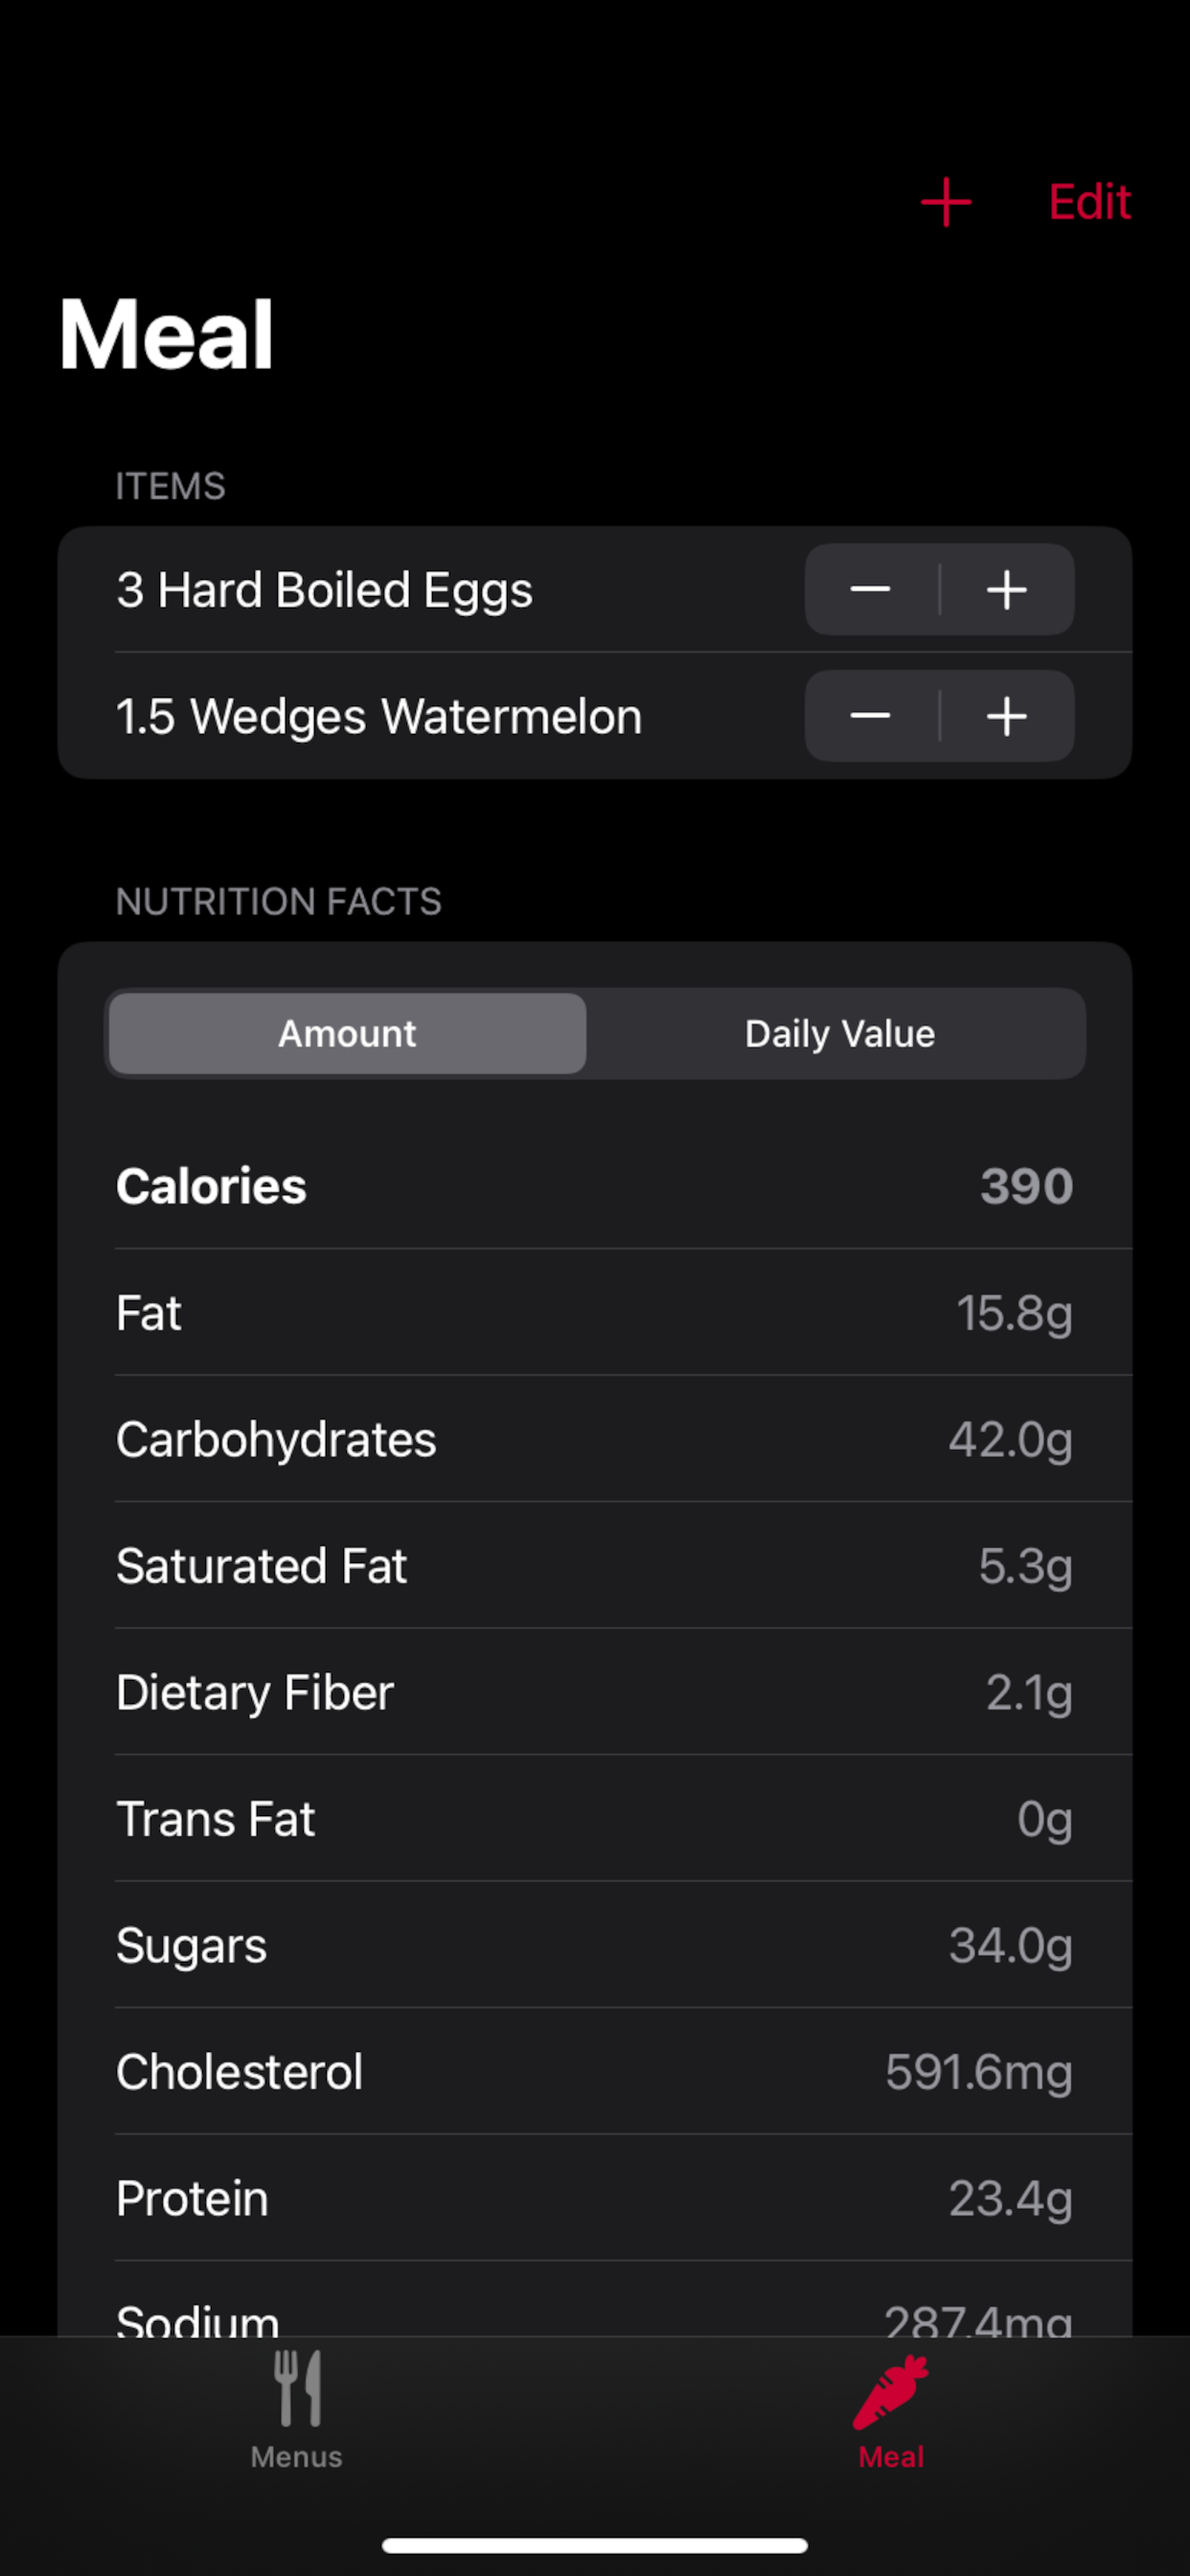
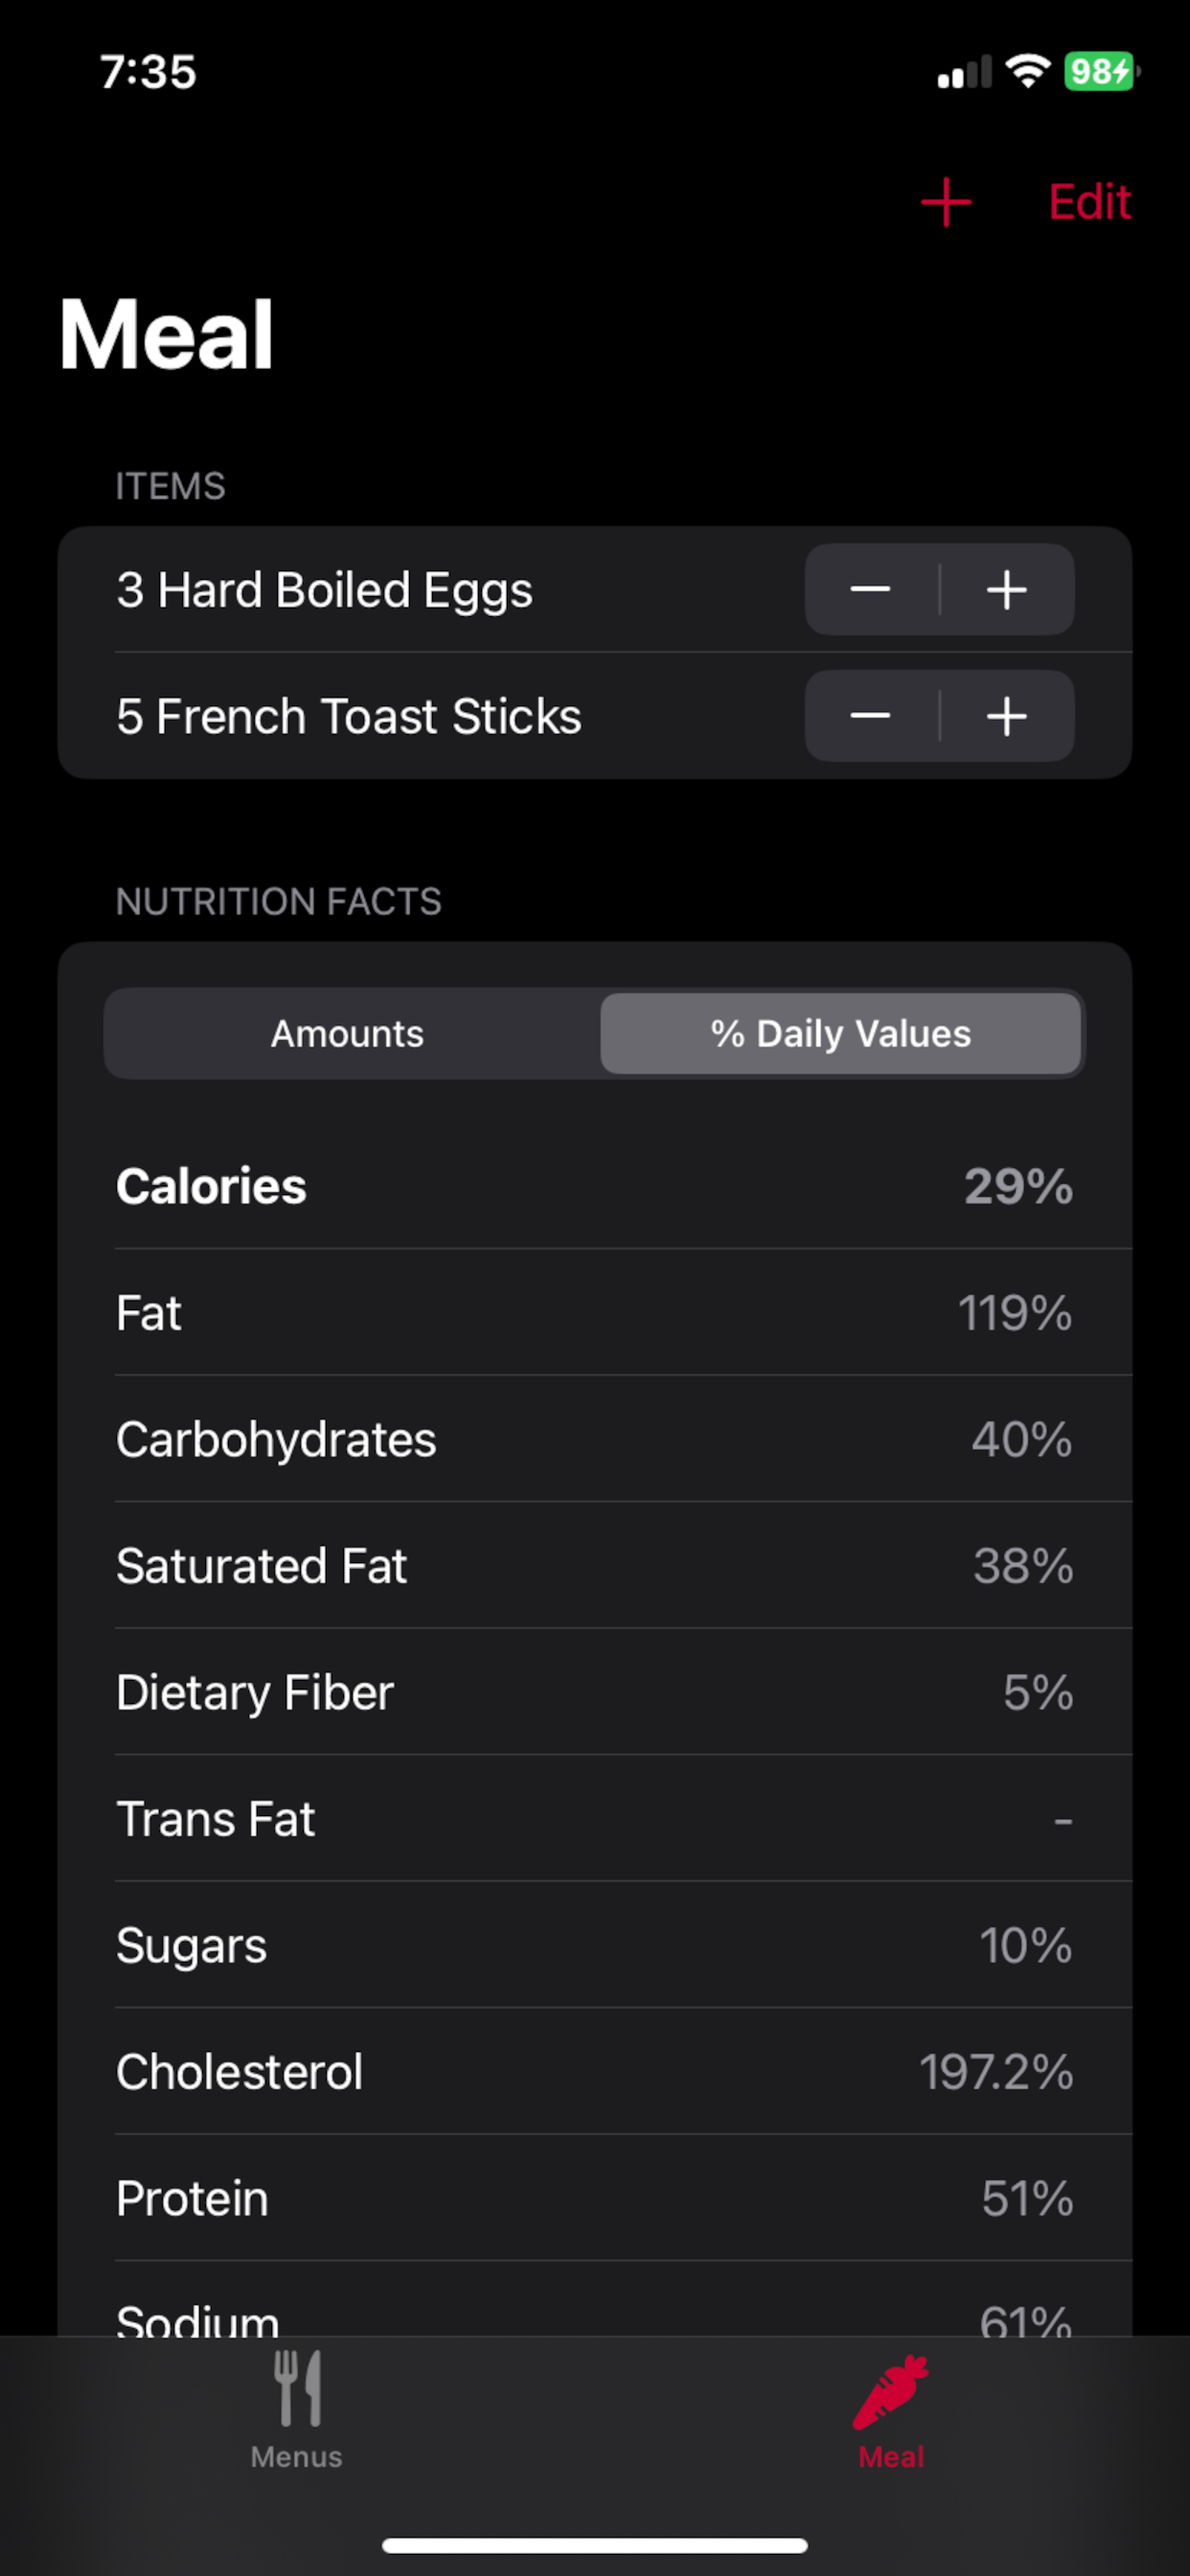
Update screenshots and README.md

diff --git a/README.md b/README.md
@@ -1,14 +1,21 @@
-# <img src="RU-Eating/Assets.xcassets/AppIcon.appiconset/MenRU.png" width="22" /> RU Eating
+# <img src="RU-Eating/Assets.xcassets/Scarlet.appiconset/MenRU.png" width="22" /> RU Eating
+[![Download on the App Store](Images/download-on-app-store.svg)](https://apps.apple.com/us/app/ru-eating/id6692608792)
+
 An unofficial Rutgers University-New Brunswick dining hall menu app for iOS written in Swift using **SwiftUI**, **SwiftData**, and **[SwiftSoup](https://github.com/scinfu/SwiftSoup)**.
 
 ## Features
 - View dine-in and takeout menus from Busch Dining Hall, Livingston Dining Commons, Neilson Dining Hall, and The Atrium from any date pulled directly from [food.rutgers.edu](https://food.rutgers.edu)
 - Filters through item's ingredients and warns the user if an item contains their dietary restrictions
-- View nutrition facts (amount and daily value) and ingredients for items
+- View detailed nutrition facts (amounts and percent daily values) and ingredients for items
 - Favorite items, adding a star next to the item every time it appears on current and future menus
 - Calculate nutrition facts of an entire meal
 - Display weekend breakfast options under breakfast and lunch
 - Display which dining halls are currently open and closed based on their normal hours
+- Optionally use FDA daily values instead of default daily values
+- Hide nutrients with no value or with a value of zero
+- Renamed items to make the names more consistent
+- Reorders menu and puts the more used categories towards the top
+- Change app icon and color scheme in settings
 
 ## Requirements
 - iOS 17+
@@ -20,6 +27,6 @@ An unofficial Rutgers University-New Brunswick dining hall menu app for iOS writ
   <img src="./screenshots/iPhone 16 Pro Max/menu.png" width="32%">
   <img src="./screenshots/iPhone 16 Pro Max/item.png" width="32%">
   <img src="./screenshots/iPhone 16 Pro Max/meal.png" width="32%">
+  <img src="./screenshots/iPhone 16 Pro Max/add-item.png" width="32%">
   <img src="./screenshots/iPhone 16 Pro Max/settings.png" width="32%">
-  <img src="./screenshots/iPhone 16 Pro Max/light-mode.png" width="32%">
 </div>
